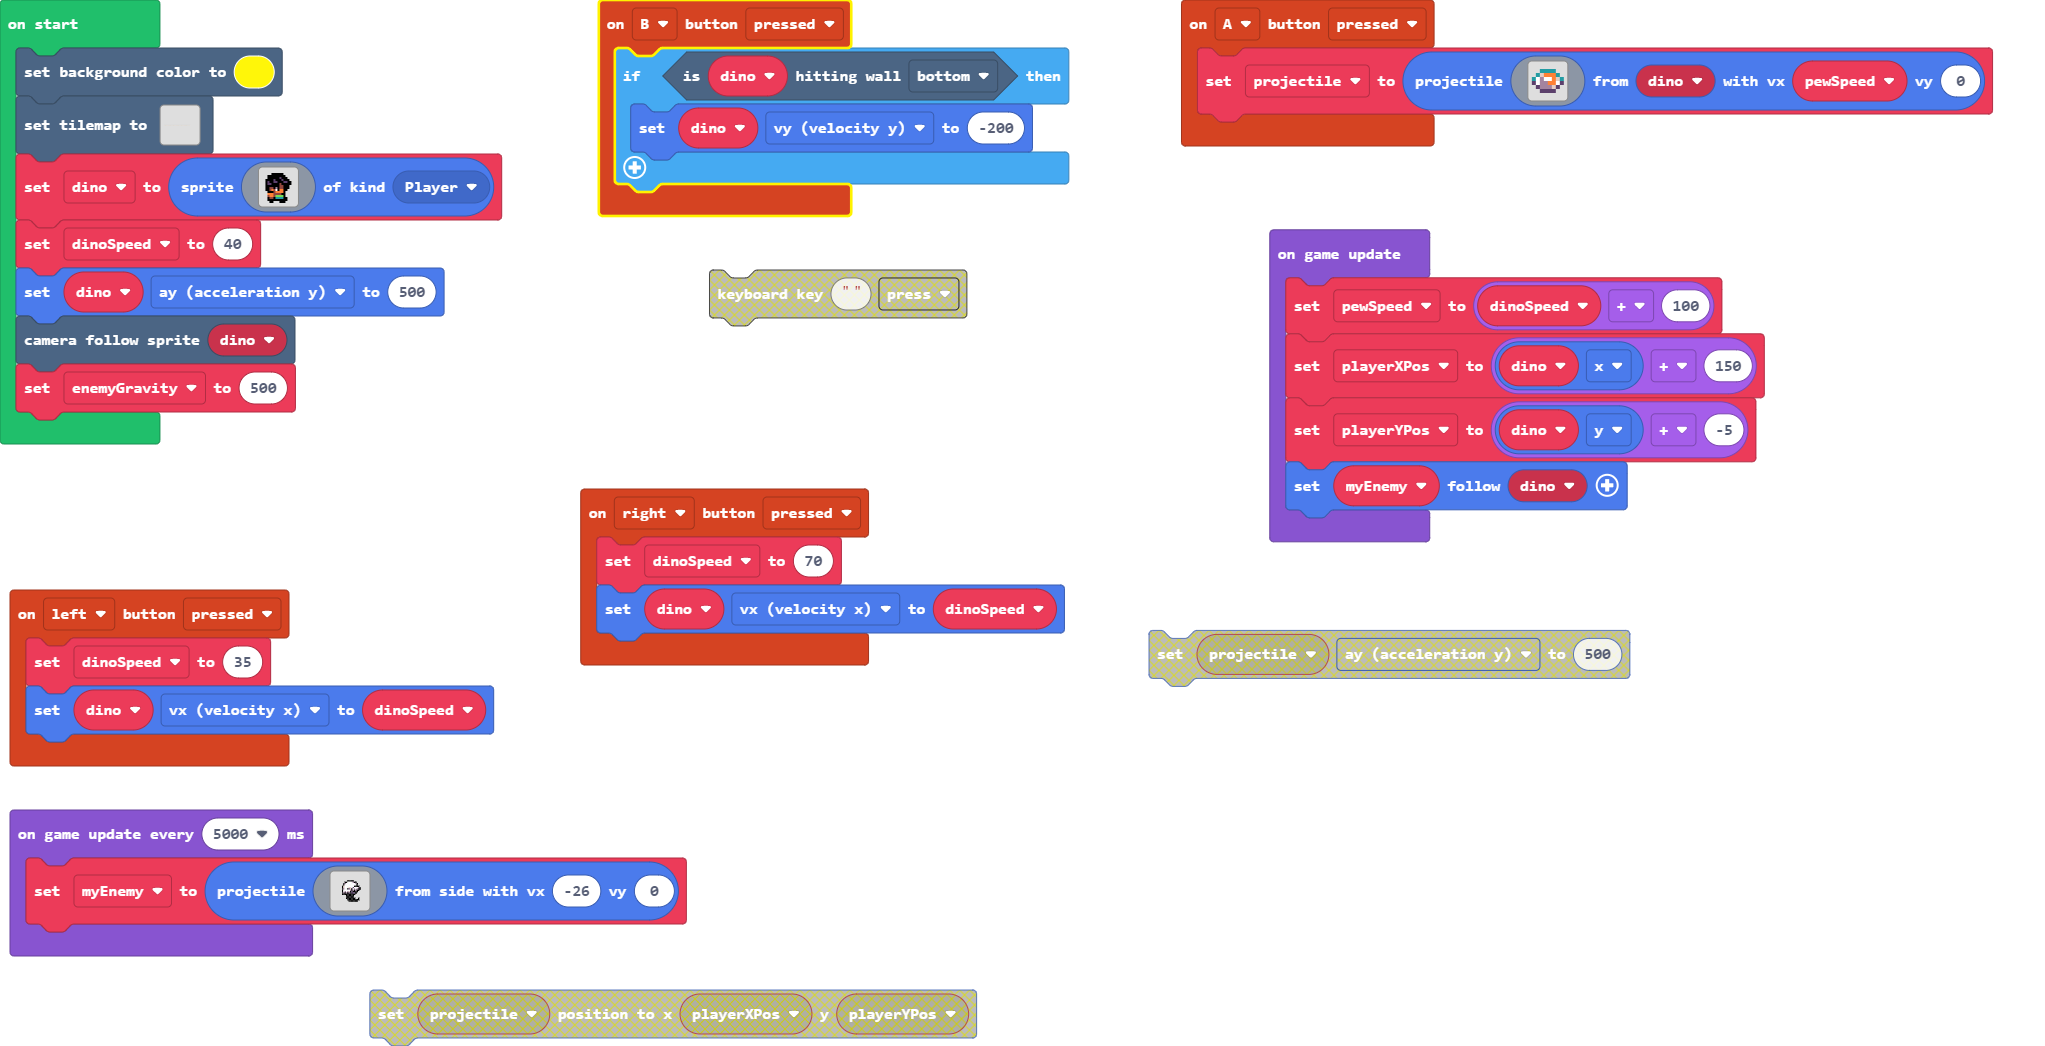
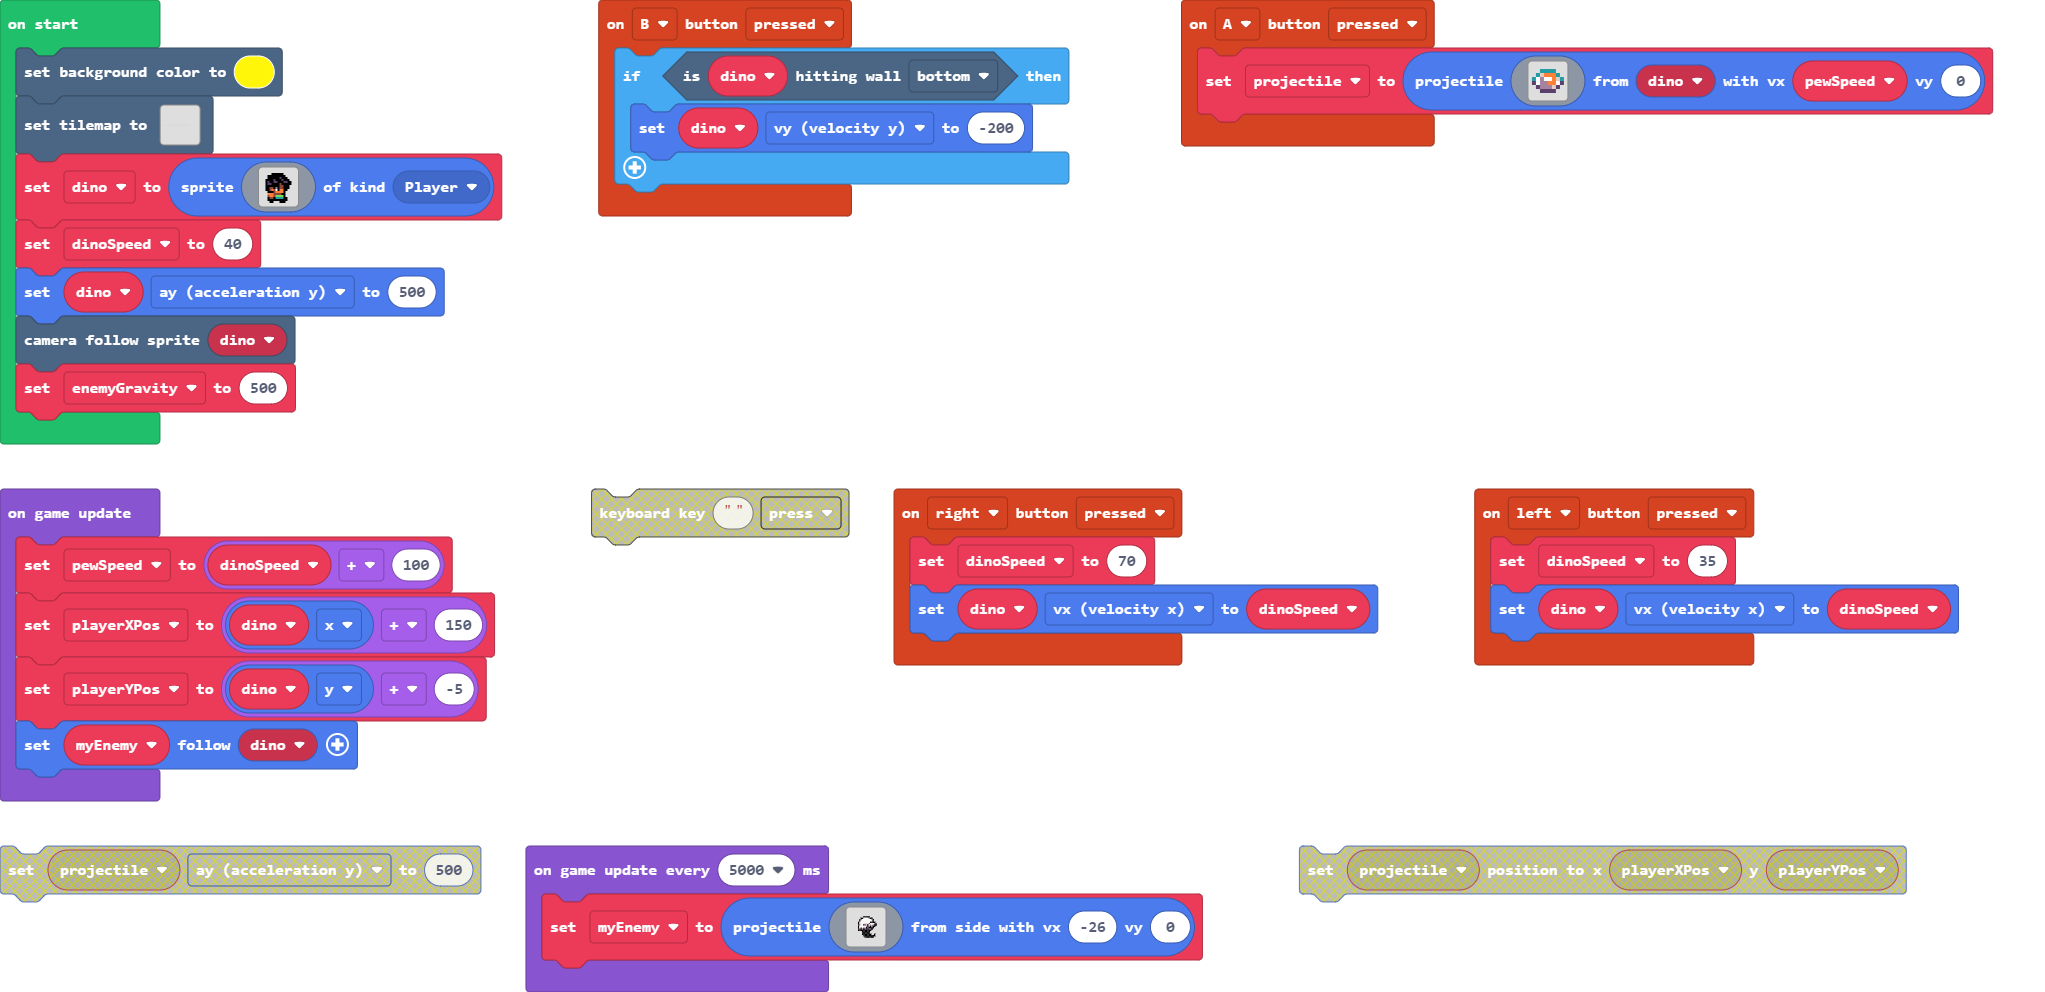
Moved player to the side of screen

diff --git a/main.ts b/main.ts
@@ -21,6 +21,7 @@ controller.right.onEvent(ControllerButtonEvent.Pressed, function () {
     dinoSpeed = 70
     dino.vx = dinoSpeed
 })
+
 let myEnemy: Sprite = null
 let playerYPos = 0
 let playerXPos = 0
@@ -29,16 +30,7 @@ let projectile: Sprite = null
 let dinoSpeed = 0
 let dino: Sprite = null
 scene.setBackgroundColor(5)
-tiles.setTilemap(tiles.createTilemap(hex`640008000000000000000000000000000000000000000000000000000000000000000000000000000000000000000000000000000000000000000000000000000000000000000000000000000000000000000000000000000000000000000000000000000000000000000000000000000000000000000000000000000000000000000000000000000000000000000000000000000000000000000000000000000000000000000000000000000000000000000000000000000000000000000000000000000000000000000000000000000000000000000000000000000000000000000000000000000000000000000000000000000000000000000000000000000000000000000000000000000000000000000000000000000000000000000000000000000000000000000000000000000000000000000000000000000000000000000000000000000000000000000000000000000000000000000000000000000000000000000000000000000000000000000000000000000000000000000000000000000000000000000000000000000000000000000000000000000000000000000000000000000000000000000000000000000000000000000000000000000000000000000000000000000000000000000000000000000000000000000000000000000000000000000000000000000000000000000000000000000000000000000000000000000000000000000000000000000000000000000000000000000000000000000000000000000000000000000000000000000000000000000000000000000000000000000000000000000000000000000000000000000101010101010101010101010101010101010101010101010101010101010101010101010101010101010101010101010101010101010101010101010101010101010101010101010101010101010101010000000000000000000000000000000000000002020202020202020202020202020202020202020202020202020202020202020202020202020202020202020202020202020202020202020202020202020202020202020202020202020202020202020000000000000000000000000000000000000000`, img`
-    ....................................................................................................
-    ....................................................................................................
-    ....................................................................................................
-    ....................................................................................................
-    ....................................................................................................
-    ....................................................................................................
-    222222222222222222222222222222222222222222222222222222222222222222222222222222222...................
-    222222222222222222222222222222222222222222222222222222222222222222222222222222222...................
-    `, [myTiles.transparency16,sprites.castle.tilePath2,sprites.castle.tilePath5], TileScale.Sixteen))
+tiles.setTilemap(tilemap`level_0`)
 dino = sprites.create(img`
     . . . . . . . . . . . . . 
     . . . f f f f f f . . . . 
@@ -57,18 +49,23 @@ dino = sprites.create(img`
     . f f f f f f f f f f . . 
     . . f f . . . f f f . . . 
     `, SpriteKind.Player)
-dinoSpeed = 40
+dino.setVelocity(40,0)
+
 dino.ay = 500
-scene.cameraFollowSprite(dino)
+
+
+
 let enemyGravity = 500
 game.onUpdate(function () {
-    pewSpeed = dinoSpeed + 100
+    scene.centerCameraAt(dino.x+60, dino.y)
+    pewSpeed = dino.vx + 100
     playerXPos = dino.x + 150
     playerYPos = dino.y + -5
     myEnemy.follow(dino)
 })
 game.onUpdateInterval(5000, function () {
-    myEnemy = sprites.createProjectileFromSide(img`
+    
+    myEnemy = sprites.create(img`
         ........................
         ........................
         ........................
@@ -93,5 +90,10 @@ game.onUpdateInterval(5000, function () {
         ........................
         ........................
         ........................
-        `, -26, 0)
+    `, SpriteKind.Enemy)
+
+
+})
+sprites.onOverlap(SpriteKind.Player, SpriteKind.Enemy, function(player: Sprite, enemy: Sprite) {
+
 })

diff --git a/tilemap.g.ts b/tilemap.g.ts
@@ -15,6 +15,16 @@ namespace myTiles {
 222222222222222222222222222222222222222222222222222222222222222222222222222222222...................
 222222222222222222222222222222222222222222222222222222222222222222222222222222222...................
 `, [myTiles.transparency16,sprites.castle.tilePath2,sprites.castle.tilePath5], TileScale.Sixteen)
+            case "level_0": return tiles.createTilemap(hex`640008000000000000000000000000000000000000000000000000000000000000000000000000000000000000000000000000000000000000000000000000000000000000000000000000000000000000000000000000000000000000000000000000000000000000000000000000000000000000000000000000000000000000000000000000000000000000000000000000000000000000000000000000000000000000000000000000000000000000000000000000000000000000000000000000000000000000000000000000000000000000000000000000000000000000000000000000000000000000000000000000000000000000000000000000000000000000000000000000000000000000000000000000000000000000000000000000000000000000000000000000000000000000000000000000000000000000000000000000000000000000000000000000000000000000000000000000000000000000000000000000000000000000000000000000000000000000000000000000000000000000000000000000000000000000000000000000000000000000000000000000000000000000000000000000000000000000000000000000000000000000000000000000000000000000000000000000000000000000000000000000000000000000000000000000000000000000000000000000000000000000000000000000000000000000000000000000000000000000000000000000000000000000000000000000000000000000000000000000000000000000000000000000000000000000000000000000000000000000000000000000000101010101010101010101010101010101010101010101010101010101010101010101010101010101010101010101010101010101010101010101010101010101010101010101010101010101010101010000000000000000000000000000000000000002020202020202020202020202020202020202020202020202020202020202020202020202020202020202020202020202020202020202020202020202020202020202020202020202020202020202020000000000000000000000000000000000000000`, img`
+....................................................................................................
+....................................................................................................
+....................................................................................................
+....................................................................................................
+....................................................................................................
+....................................................................................................
+222222222222222222222222222222222222222222222222222222222222222222222222222222222...................
+222222222222222222222222222222222222222222222222222222222222222222222222222222222...................
+`, [myTiles.transparency16,sprites.castle.tilePath2,sprites.castle.tilePath5], TileScale.Sixteen)
         }
         return null;
     })
